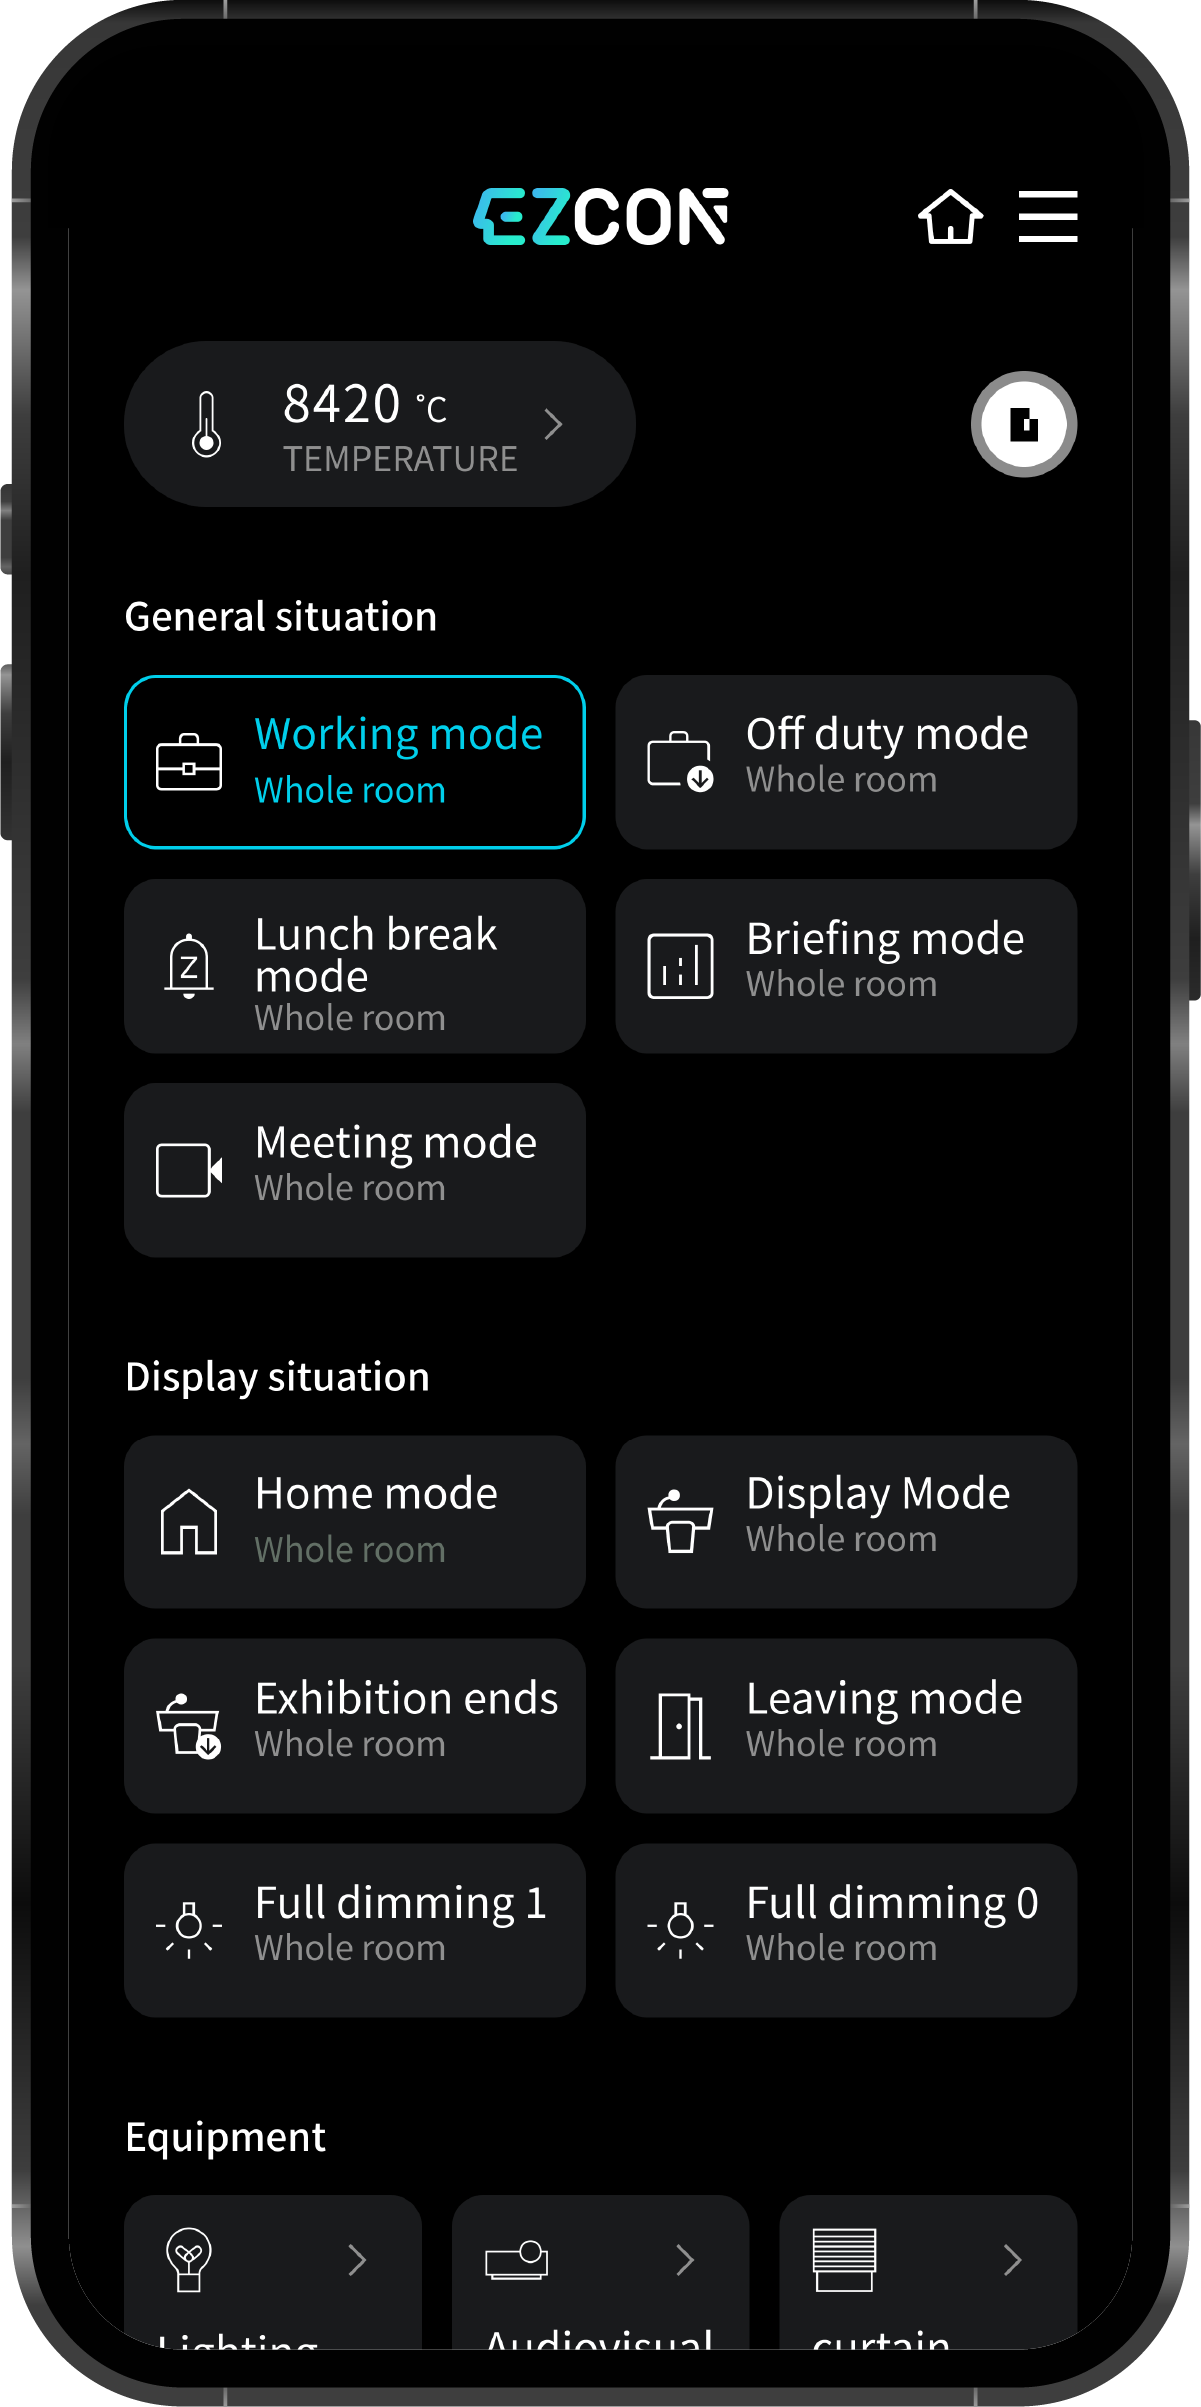
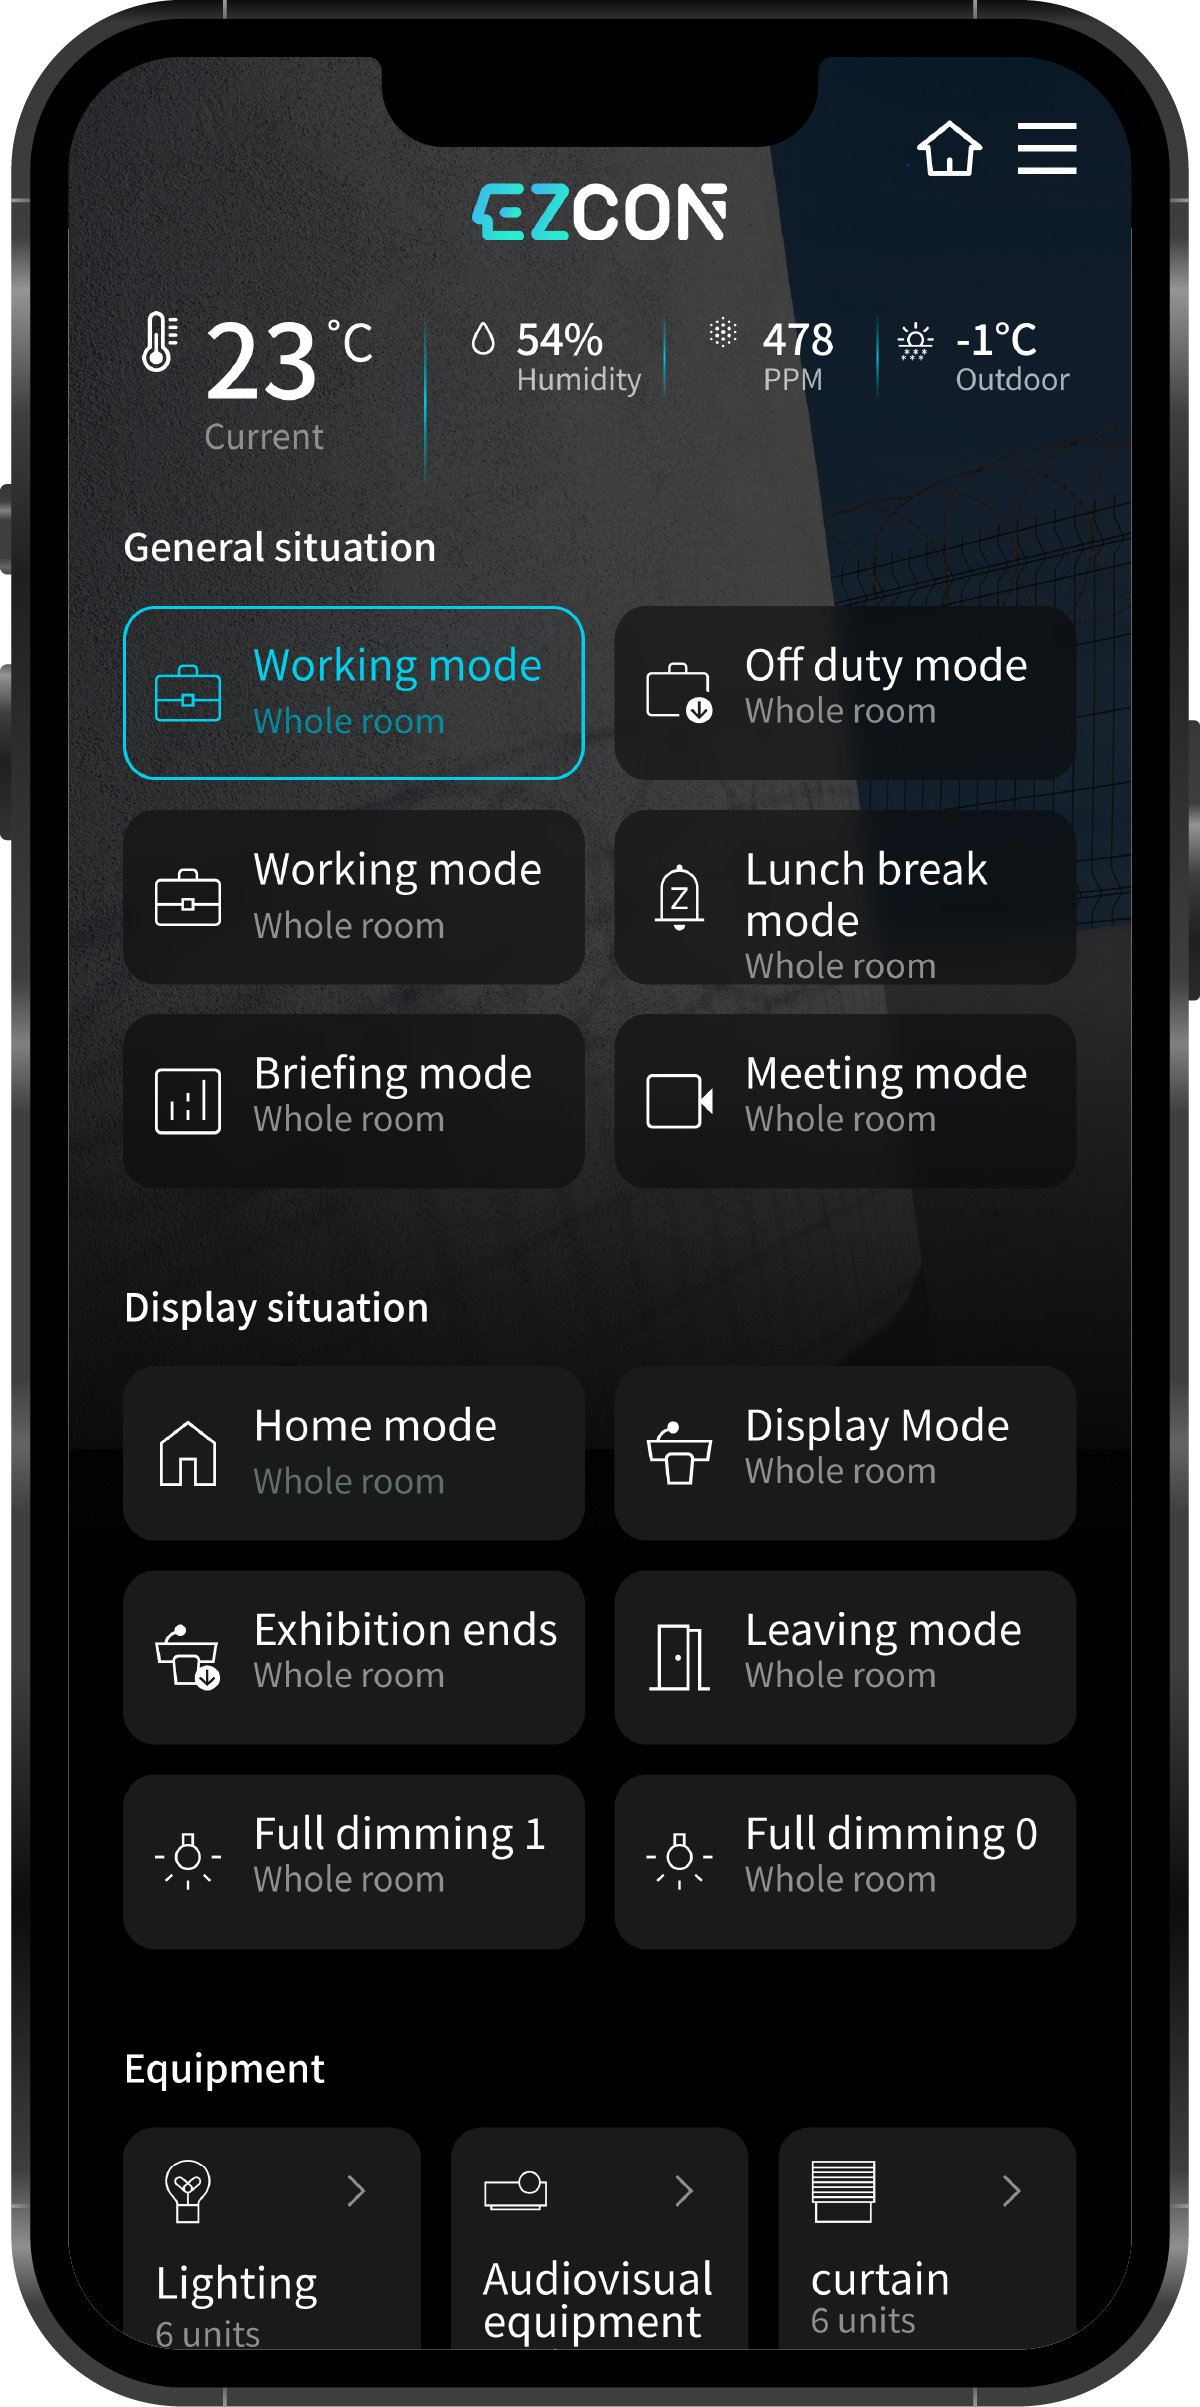
app_fr

diff --git a/web_EZcon/ehome.html b/web_EZcon/ehome.html
@@ -454,6 +454,18 @@
               <a href="#" class="read-more">Read more</a>
             </div>
         </div>
+
+        <div class="timeline-carousel__item">
+          <div class="timeline-carousel__image">
+              <div class="media-wrapper media-wrapper--overlay" style="background: url('images/app_fr/app_fr_ModeSetting.png') center center; background-size:cover;"></div>
+          </div>
+          <div class="timeline-carousel__item-inner">
+              <span class="year">Mode-Specific settings for devices</span>
+              <span class="month">Excellent mobile and web app experiences</span>
+              <p>It's a place that anticipates your needs and empowers you to fine-tune your environment. That's the pitch, at least. Putting it all together isn't a smooth ride, but the right setup and combination of devices can make your add real convenience to your life.</p>
+            <a href="#" class="read-more">Read more</a>
+          </div>
+      </div>
       
         <div class="timeline-carousel__item">
             <div class="timeline-carousel__image">
@@ -533,7 +545,7 @@
 
       <div class="timeline-carousel__item">
         <div class="timeline-carousel__image">
-            <div class="media-wrapper media-wrapper--overlay" style="background: url('images/app_fr/app_fr_home.png') center center; background-size:cover;"></div>
+            <div class="media-wrapper media-wrapper--overlay" style="background: url('images/app_fr/app_fr_home_2.png') center center; background-size:cover;"></div>
         </div>
         <div class="timeline-carousel__item-inner">
           <!-- <span class="year">EZ Smart Refrigerator</span>
